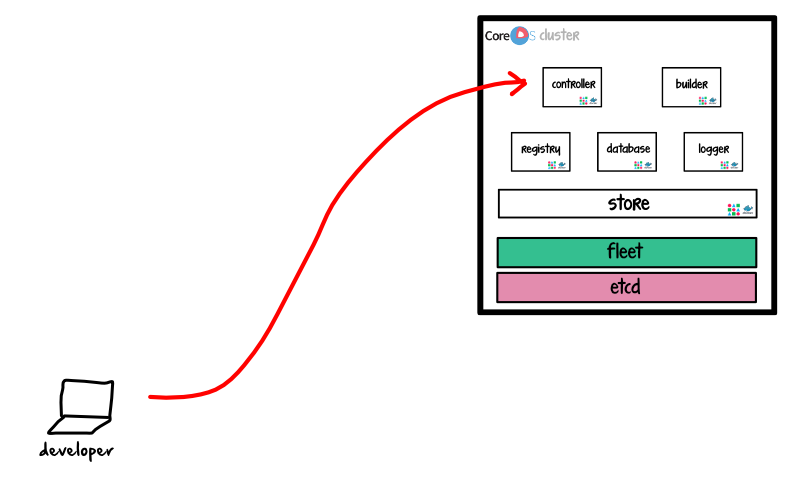
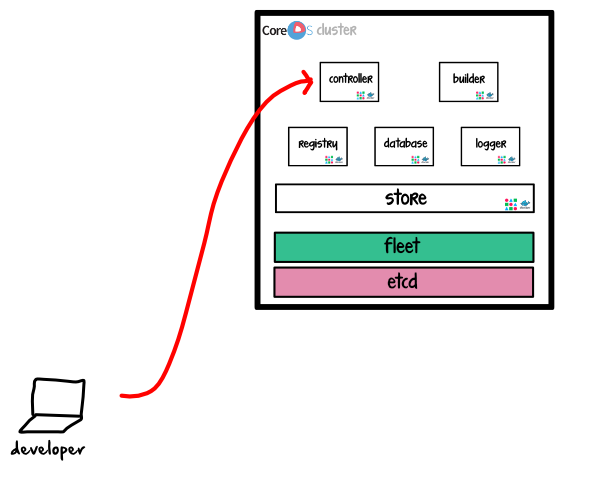
update create-app-step-1 drawing

diff --git a/create_application.md b/create_application.md
@@ -5,8 +5,14 @@
 - [http://docs.deis.io/en/latest/using_deis/deploy-application]()
 - [http://docs.deis.io/en/latest/using_deis/using-buildpacks]()
 
-![](https://raw.githubusercontent.com/radamanthus/deis-under-the-hood/master/assets/create-application-step-1.png)
+1. `deis` client calls the controller API
 
-![](https://raw.githubusercontent.com/radamanthus/deis-under-the-hood/master/assets/create-application-step-2.png)
+  ![](https://raw.githubusercontent.com/radamanthus/deis-under-the-hood/master/assets/create-application-step-1.png)
 
-![](https://raw.githubusercontent.com/radamanthus/deis-under-the-hood/master/assets/create-application-step-3.png)
+2. `controller` creates a new row for the application in the `api_app` table of the `deis` database
+
+  ![](https://raw.githubusercontent.com/radamanthus/deis-under-the-hood/master/assets/create-application-step-2.png)
+
+3. `controller` creates the `/deis/services/<app_name>` key in `etcd`
+
+  ![](https://raw.githubusercontent.com/radamanthus/deis-under-the-hood/master/assets/create-application-step-3.png)
